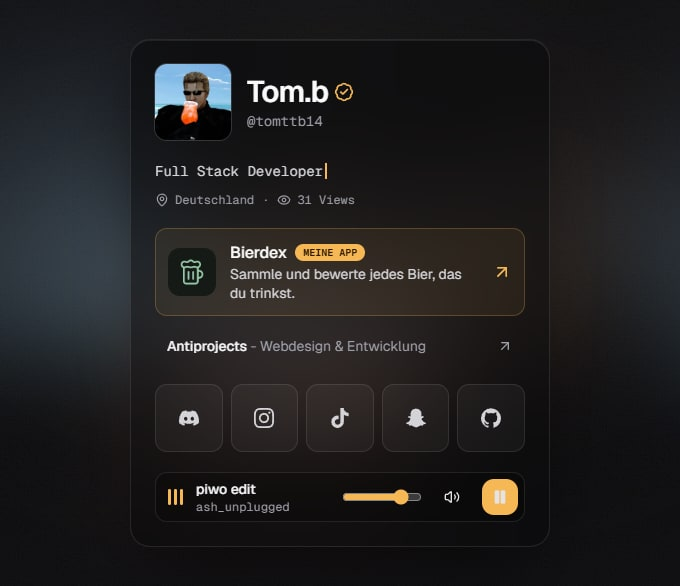
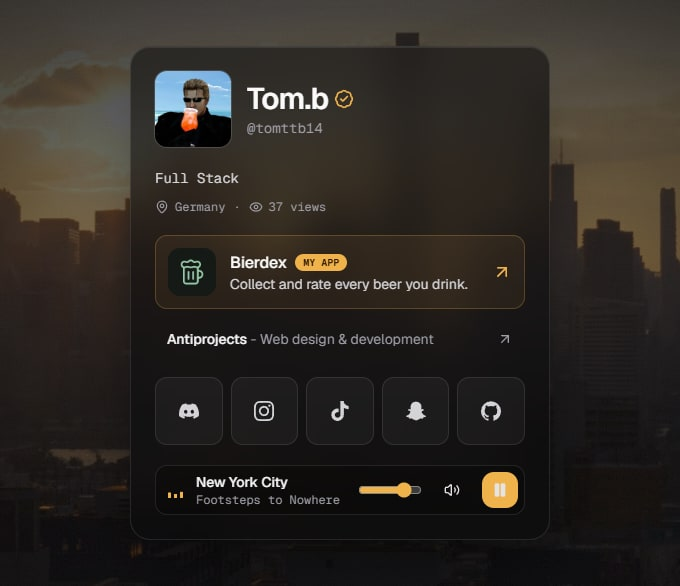
Rewrite profile in English, group work by area, refresh bio preview

diff --git a/README.md b/README.md
@@ -1,35 +1,41 @@
 <p align="center">
   <a href="https://tomb-bio.vercel.app">
-    <img src="assets/bio-preview.jpg" alt="Vorschau meiner Bio-Seite: Profil, Bierdex, Links und Musik" width="460" />
+    <img src="assets/bio-preview.jpg" alt="Preview of my bio page: profile, links and music" width="460" />
   </a>
 </p>
 
-<h3 align="center">Hey, ich bin Tom</h3>
+<h3 align="center">Hey, I'm Tom</h3>
 
 <p align="center">
-  Full Stack Developer aus Deutschland. Ich baue Apps, Websites, Minecraft-Plugins und Discord-Bots.
+  Full stack developer from Germany. I build web apps, mobile apps, Java plugins and mods, and Discord bots.
 </p>
 
 <p align="center">
-  <a href="https://tomb-bio.vercel.app"><img src="https://img.shields.io/badge/Bio-Links_%26_Musik-e8b04b?style=flat-square&labelColor=18181b" alt="Bio" /></a>
+  <a href="https://tomb-bio.vercel.app"><img src="https://img.shields.io/badge/Bio-Links_%26_Music-e8b04b?style=flat-square&labelColor=18181b" alt="Bio" /></a>
   <a href="https://antiprojects.de"><img src="https://img.shields.io/badge/Website-antiprojects.de-e8b04b?style=flat-square&labelColor=18181b" alt="Website antiprojects.de" /></a>
   <a href="https://www.bierdex.app"><img src="https://img.shields.io/badge/App-Bierdex-e8b04b?style=flat-square&labelColor=18181b" alt="App Bierdex" /></a>
 </p>
 
 <br />
 
-### Projekte
+### Live
 
-| Projekt | Worum es geht | Stack |
+| Project | What it is | Stack |
 | :-- | :-- | :-- |
-| [**Bierdex**](https://www.bierdex.app) | Bier sammeln und bewerten, im Browser und als Android-App | Next.js, Capacitor |
-| [**Antiprojects**](https://antiprojects.de) | Meine Website für Webdesign und Entwicklung | Next.js, Tailwind |
-| **Messwerk** | Prüft Websites anhand von Screenshots mit KI-Vision | Next.js, Playwright |
-| **CityBuildCore** | Plugin für einen Minecraft-CityBuild-Server | Java, Paper |
-| **Discord-Bots** | Ticket-, Willkommens- und Admin-Bots | Node.js, discord.js |
-| **Vokabeltrainer & Schrittzähler** | Kleine Android-Apps, laufen komplett offline | Next.js, Capacitor |
+| [**Bierdex**](https://www.bierdex.app) | Collect and rate the beers you drink, on the web and as an Android app | Next.js, Capacitor |
+| [**Antiprojects**](https://antiprojects.de) | My site for web design and development work | Next.js, Tailwind |
 
-<sub>Die meisten Repos sind privat. Die verlinkten Projekte kannst du live ansehen.</sub>
+<br />
+
+### What I work on
+
+- **Web apps and sites** with TypeScript, React and Next.js, from landing pages to internal dashboards
+- **Mobile apps** for Android, built from the same web stack and shipped as real offline apps
+- **Minecraft in Java**: server plugins and mods, from small utilities to full gameplay systems
+- **Discord bots** in Node.js for communities: tickets, onboarding, moderation
+- **Tools and experiments**: automation scripts, AI-assisted tooling, 3D and game prototypes
+
+<sub>Most repositories are private. The projects above are the ones you can try yourself.</sub>
 
 <br />
 
@@ -39,7 +45,7 @@
 
 <br />
 
-### Kontakt
+### Contact
 
 <p>
   <img src="https://img.shields.io/badge/Discord-tomttb14-5865F2?style=flat-square&logo=discord&logoColor=white&labelColor=18181b" alt="Discord tomttb14" />
